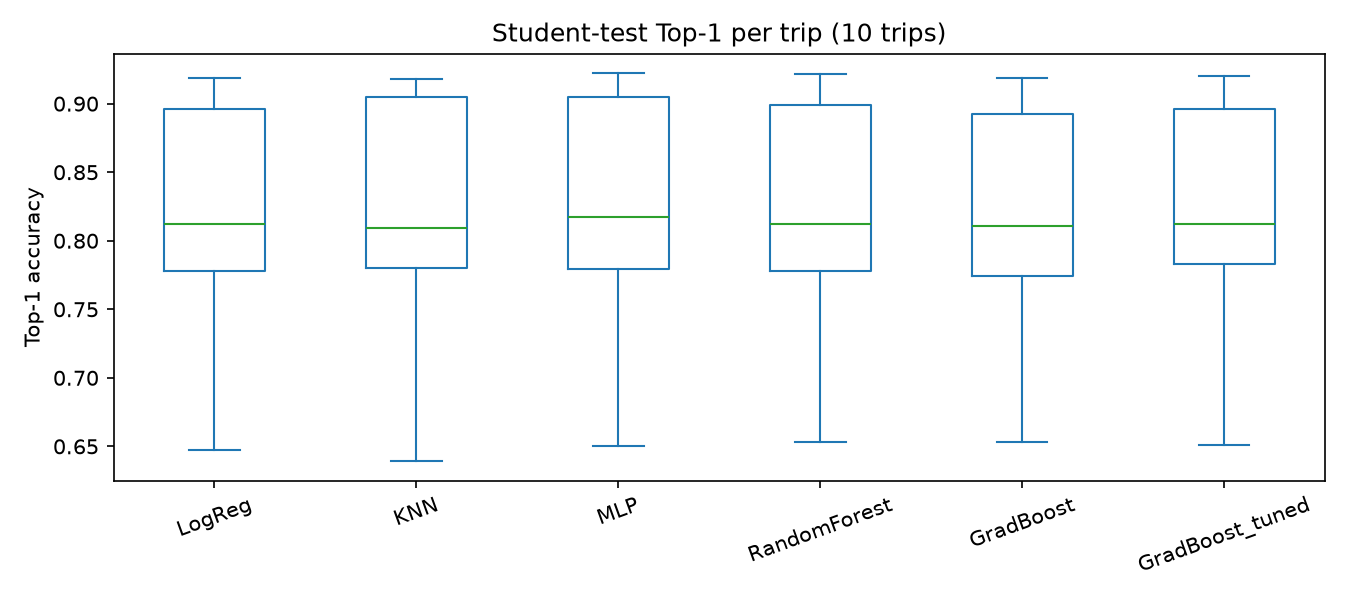
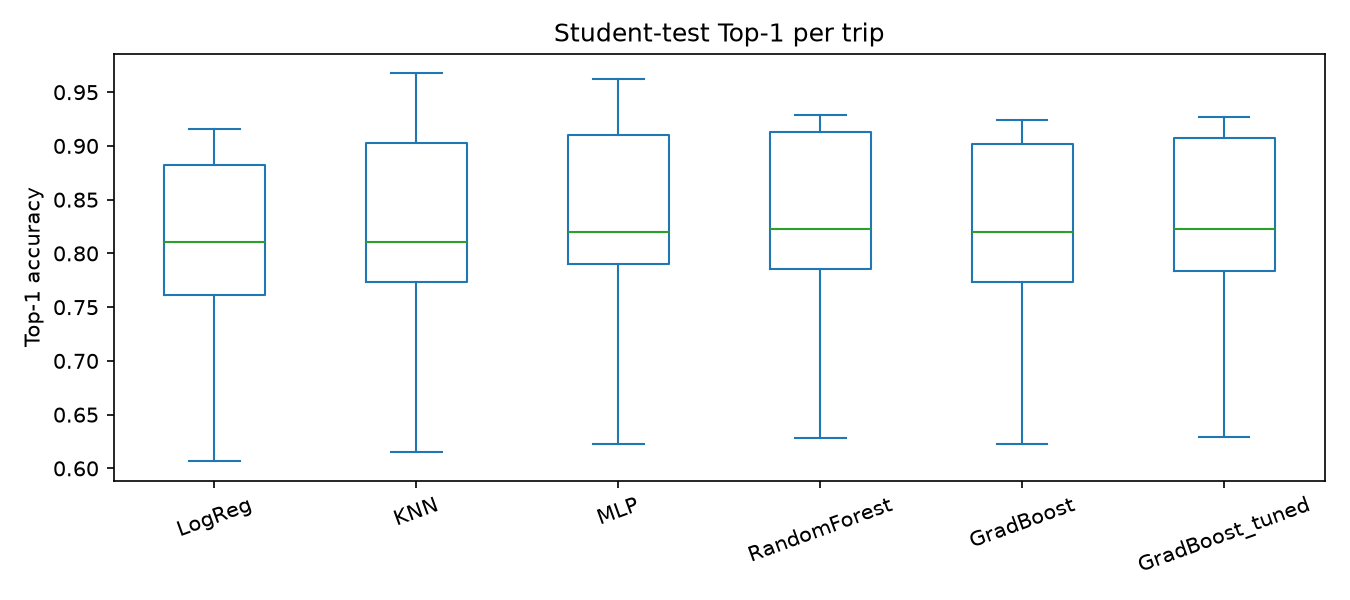
updated

diff --git a/src/models/select_model.py b/src/models/select_model.py
@@ -19,7 +19,7 @@ wins = per_trip.drop("MEAN").idxmax(axis=1).value_counts()
 print("\nTrips where each model had the best Top-1:\n", wins)
 
 per_trip.drop("MEAN").plot.box(figsize=(9, 4), rot=20)
-plt.title("Student-test Top-1 per trip (10 trips)"); plt.ylabel("Top-1 accuracy")
+plt.title("Student-test Top-1 per trip"); plt.ylabel("Top-1 accuracy")
 plt.tight_layout(); plt.savefig("results/plots/12_per_trip_top1.png", dpi=150)
 
 # ranking used for the selection decision
